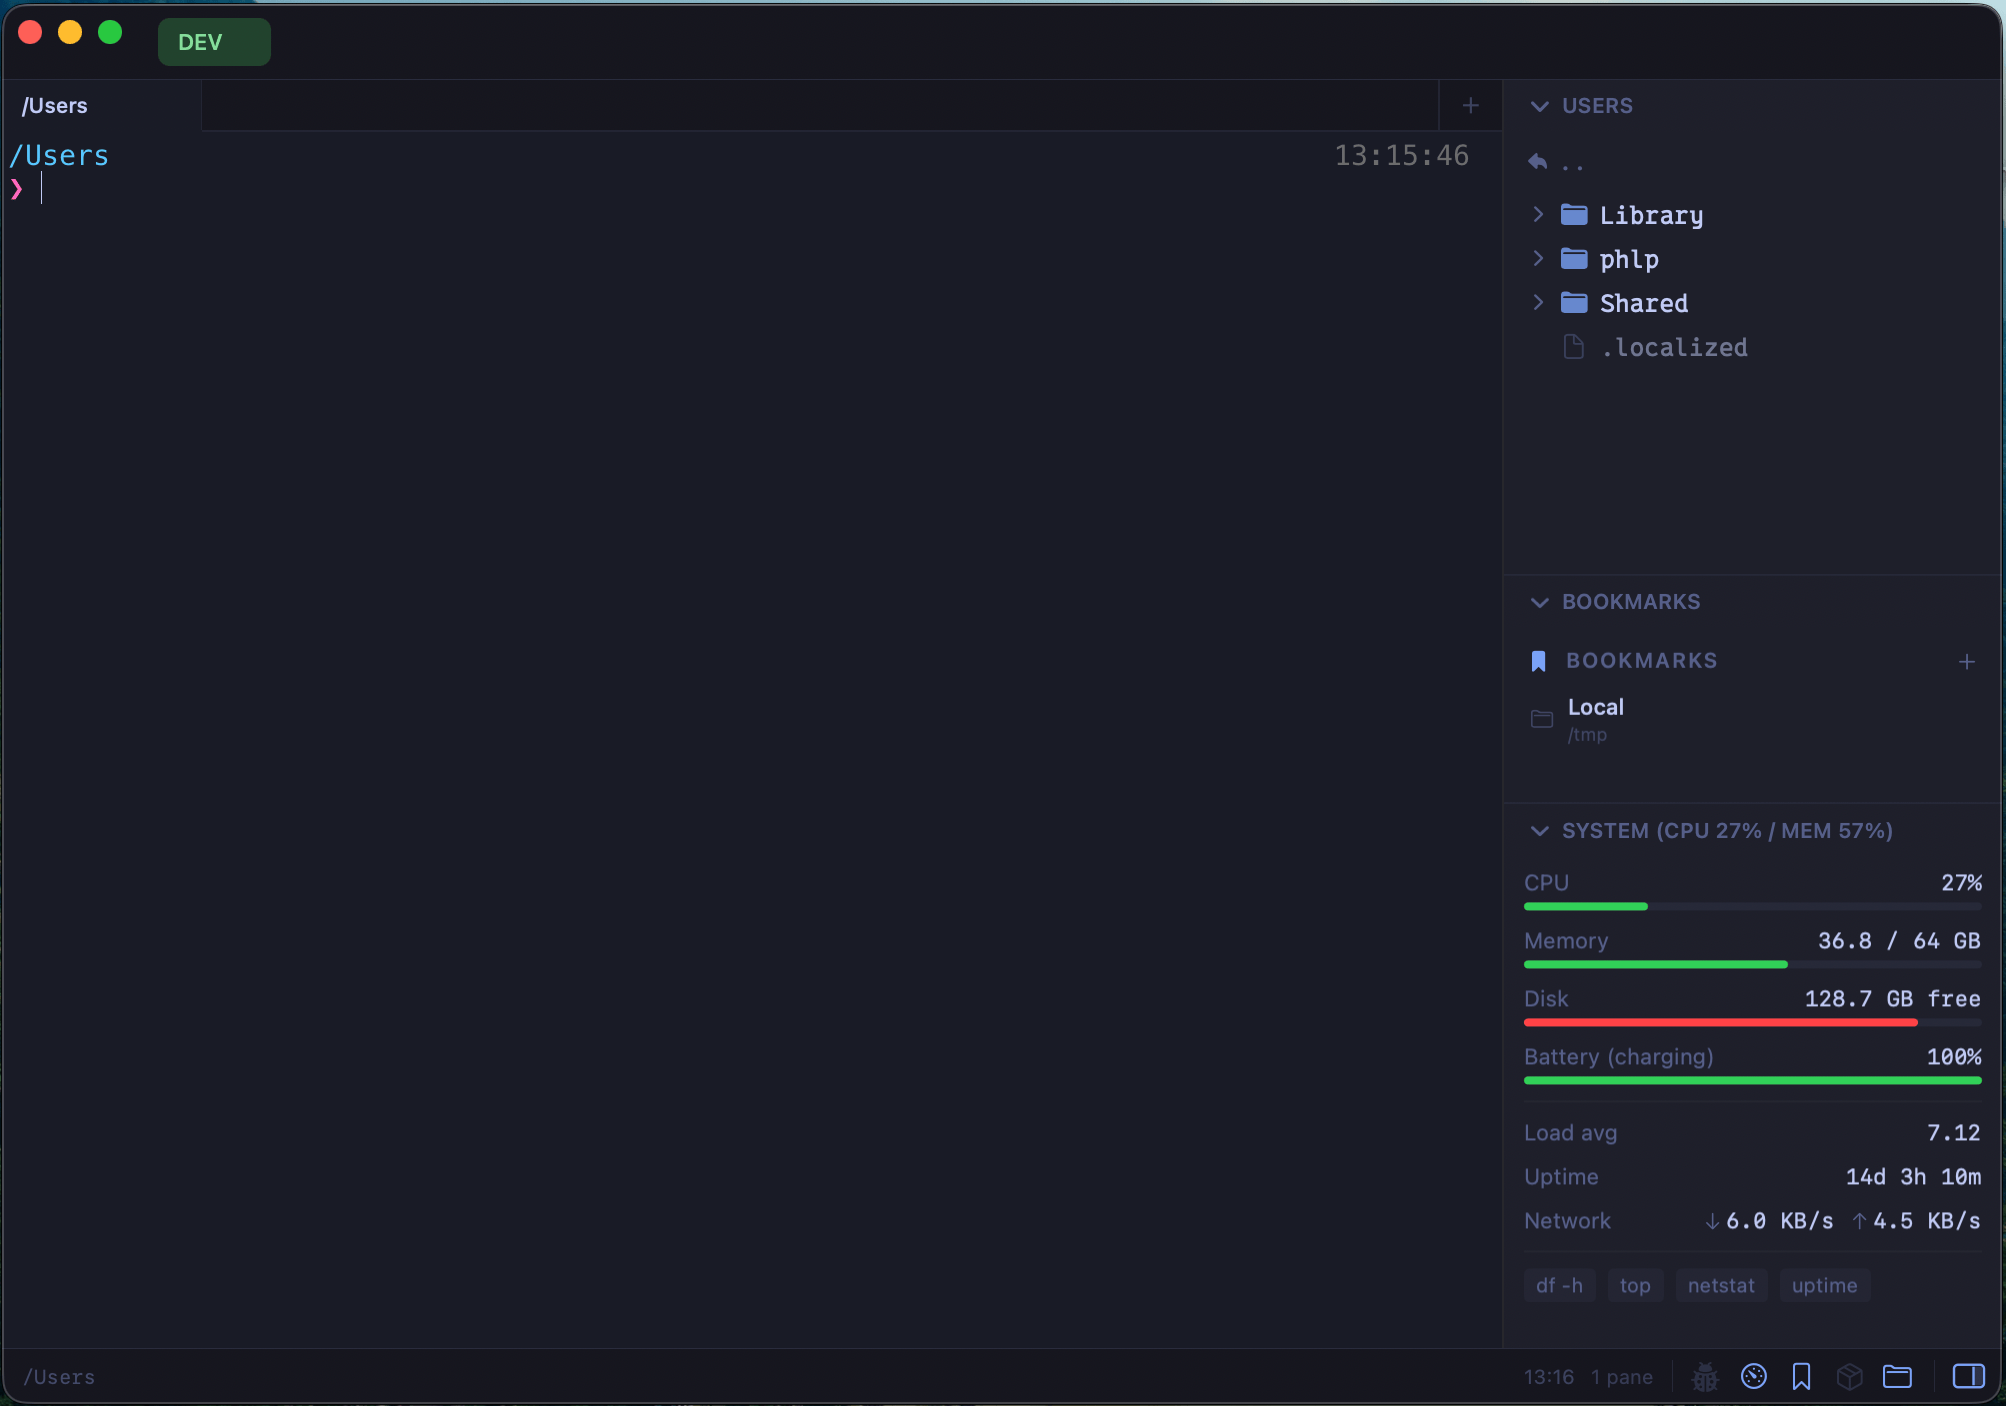
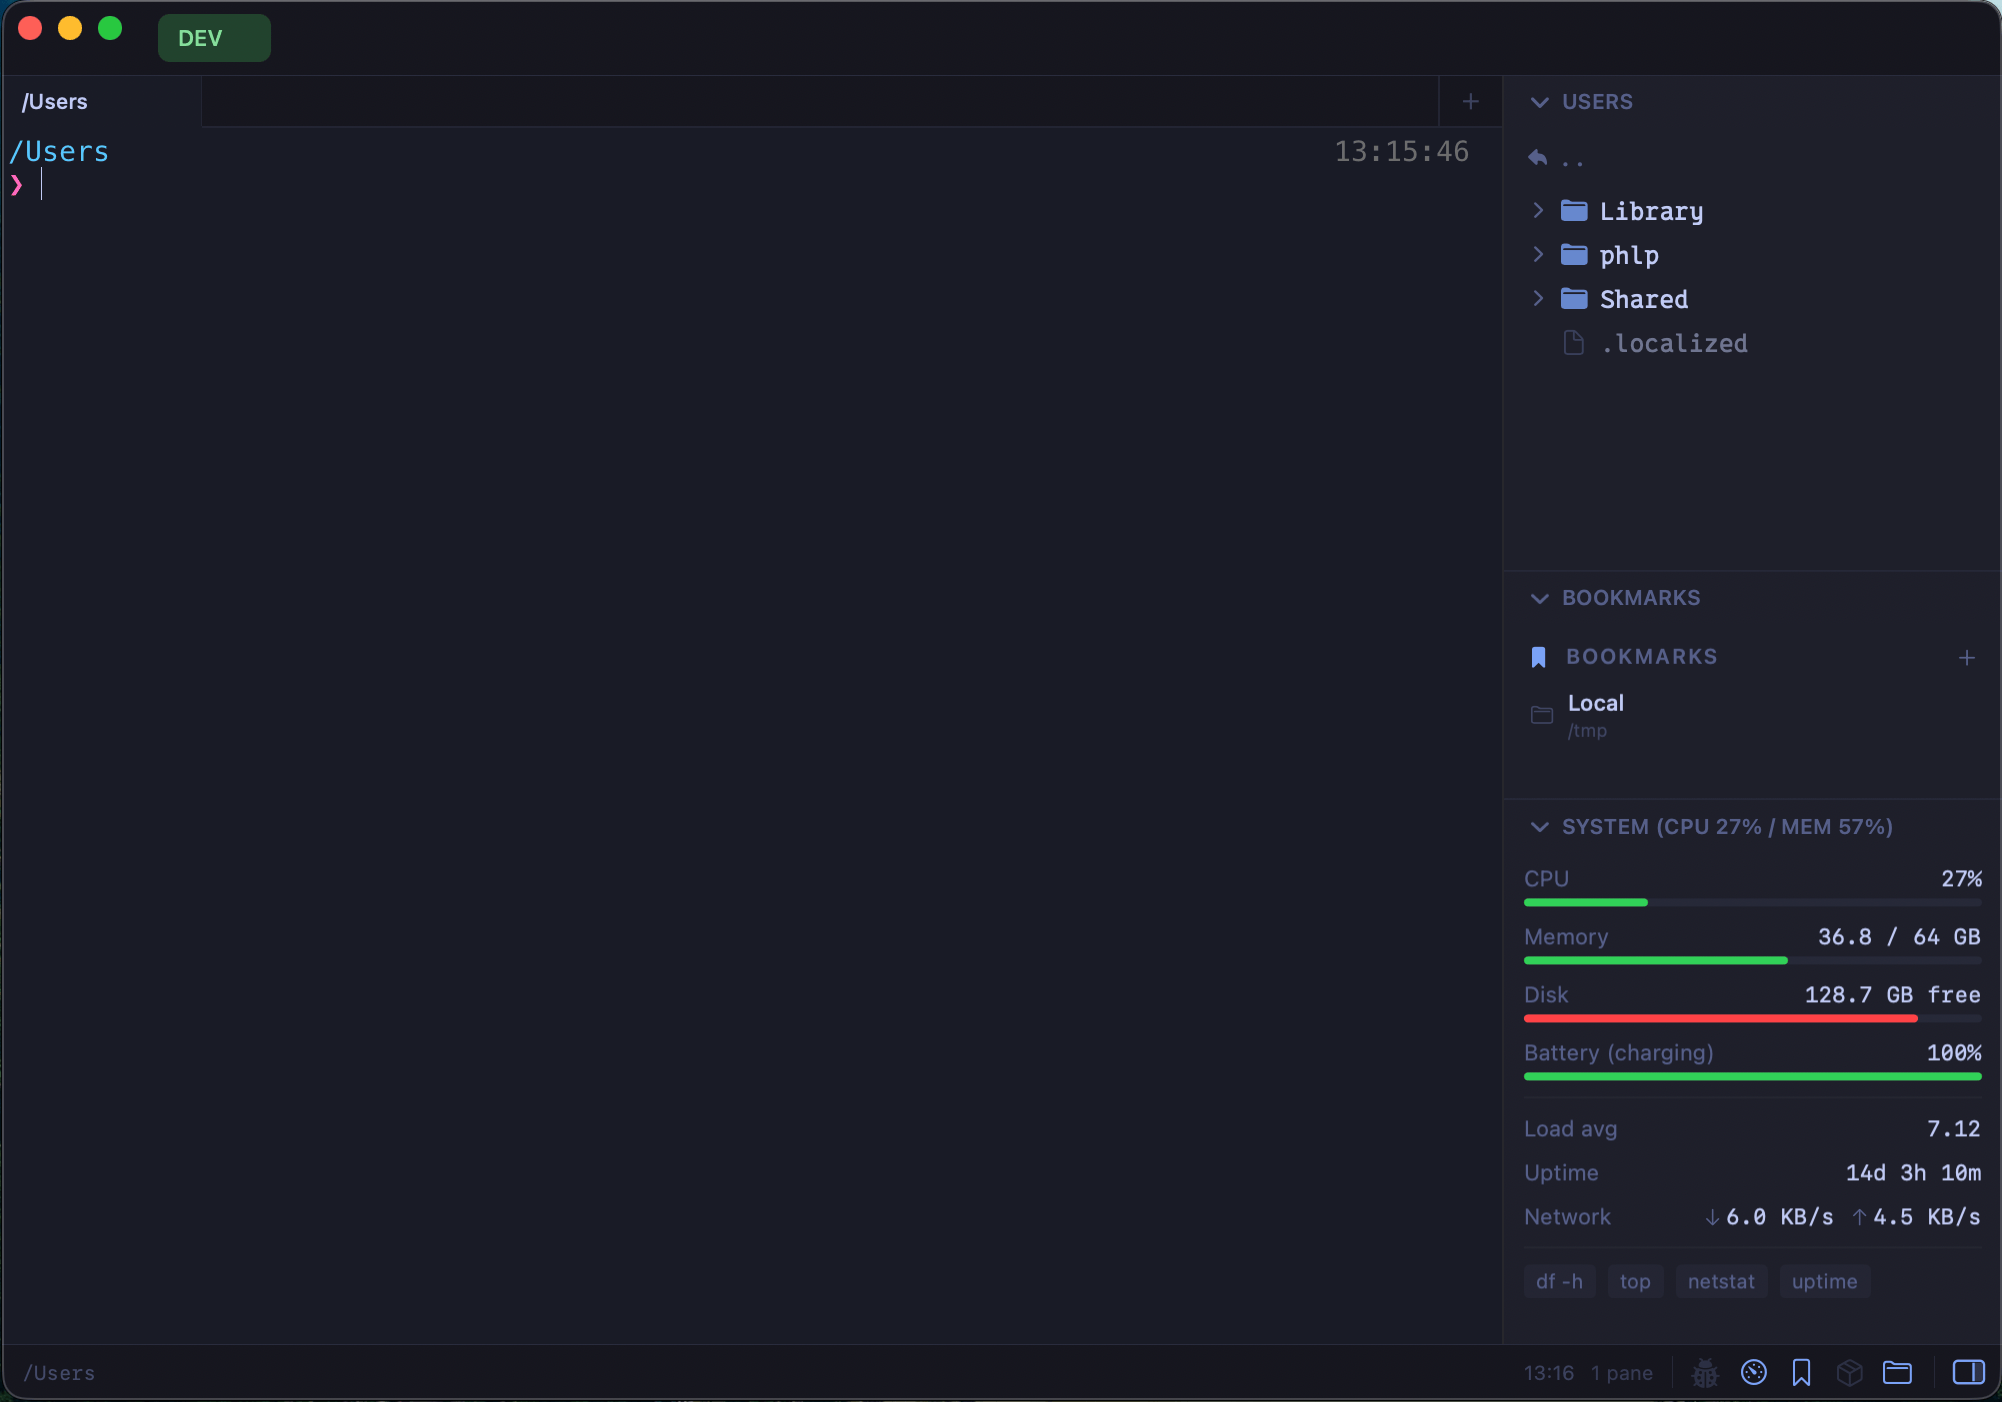
feat: improve settings window title bar to match app chrome style

diff --git a/Boo/Views/SettingsWindow.swift b/Boo/Views/SettingsWindow.swift
@@ -13,6 +13,7 @@ private struct Tokens {
     var accent: Color { Color(nsColor: theme.accentColor) }
     var bg: Color { Color(nsColor: theme.sidebarBg) }
     var chromeBg: Color { Color(nsColor: theme.chromeBg) }
+    var border: Color { Color(nsColor: theme.sidebarBorder) }
     var fg: Color {
         Color(
             red: Double(theme.foreground.r) / 255,
@@ -63,18 +64,44 @@ struct SettingsView: View {
         let _ = observer.revision
         let t = Tokens.current
 
-        HStack(spacing: 0) {
-            sidebar(t)
+        VStack(spacing: 0) {
+            // Custom title bar extending under the transparent native title bar
+            titleBar(t)
 
-            Rectangle()
-                .fill(t.muted.opacity(0.2))
-                .frame(width: 0.5)
+            HStack(spacing: 0) {
+                sidebar(t)
 
-            content
-                .frame(maxWidth: .infinity, maxHeight: .infinity, alignment: .topLeading)
+                Rectangle()
+                    .fill(t.border)
+                    .frame(width: 0.5)
+
+                content
+                    .frame(maxWidth: .infinity, maxHeight: .infinity, alignment: .topLeading)
+            }
+            .frame(maxWidth: .infinity, maxHeight: .infinity)
         }
         .frame(width: 560, height: 480)
         .background(t.bg)
+    }
+
+    // MARK: Title Bar
+
+    private func titleBar(_ t: Tokens) -> some View {
+        ZStack {
+            t.chromeBg
+            Text("Settings")
+                .font(.system(size: 12, weight: .medium))
+                .foregroundColor(t.muted)
+                .offset(y: -1)
+            VStack(spacing: 0) {
+                Spacer()
+                Rectangle()
+                    .fill(t.border)
+                    .frame(height: 0.5)
+            }
+        }
+        .frame(maxWidth: .infinity)
+        .frame(height: 30)
     }
 
     // MARK: Sidebar
@@ -1545,6 +1572,12 @@ private struct ShortcutsSettingsView: View {
     }
 }
 
+// MARK: - Hosting View (no safe area)
+
+private class NoSafeAreaHostingView<Root: View>: NSHostingView<Root> {
+    override var safeAreaInsets: NSEdgeInsets { .init() }
+}
+
 // MARK: - Window Controller
 
 class SettingsWindowController: NSWindowController {
@@ -1555,19 +1588,22 @@ class SettingsWindowController: NSWindowController {
     private init() {
         let window = NSWindow(
             contentRect: NSRect(x: 0, y: 0, width: 560, height: 480),
-            styleMask: [.titled, .closable],
+            styleMask: [.titled, .closable, .fullSizeContentView],
             backing: .buffered,
             defer: false
         )
         window.title = "Settings"
+        window.titlebarAppearsTransparent = true
+        window.titleVisibility = .hidden
         window.center()
         // Prevent the window from participating in key view loop
         // so sidebar items don't get focus rings
         window.autorecalculatesKeyViewLoop = false
         let theme = AppSettings.shared.theme
-        window.backgroundColor = theme.sidebarBg
+        window.backgroundColor = theme.chromeBg
         window.appearance = NSAppearance(named: theme.isDark ? .darkAqua : .aqua)
-        window.contentView = NSHostingView(rootView: SettingsView())
+        let hostingView = NoSafeAreaHostingView(rootView: SettingsView())
+        window.contentView = hostingView
 
         super.init(window: window)
 
@@ -1575,7 +1611,7 @@ class SettingsWindowController: NSWindowController {
             forName: .settingsChanged, object: nil, queue: .main
         ) { [weak self] _ in
             let t = AppSettings.shared.theme
-            self?.window?.backgroundColor = t.sidebarBg
+            self?.window?.backgroundColor = t.chromeBg
             self?.window?.appearance = NSAppearance(named: t.isDark ? .darkAqua : .aqua)
         }
     }

diff --git a/documentation/vocs.config.ts b/documentation/vocs.config.ts
@@ -3,7 +3,7 @@ import { defineConfig } from 'vocs'
 export default defineConfig({
   title: 'Boo',
   basePath: '/boo',
-  logoUrl: '/logo.png',
+  logoUrl: '/boo/logo.png',
   sidebar: [
     {
       text: 'Installation',
